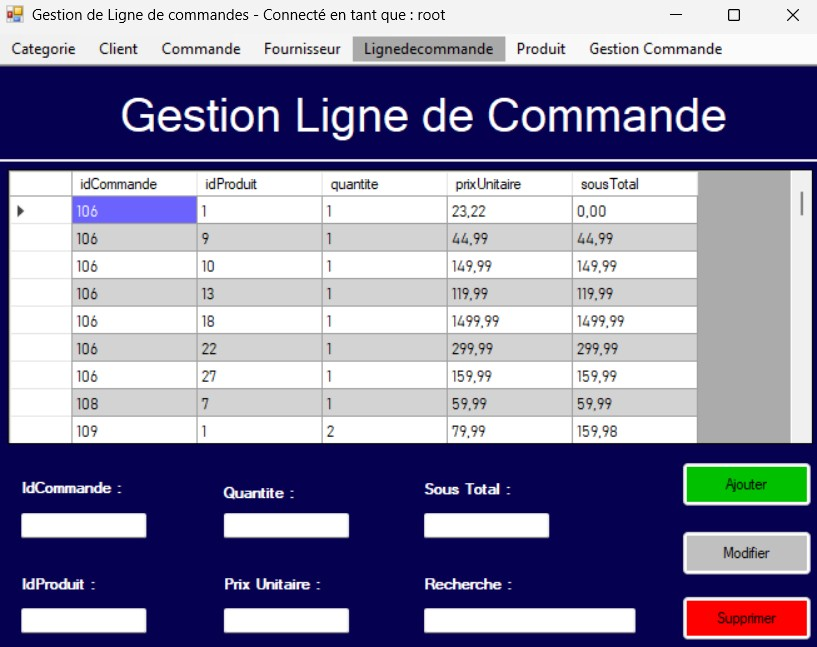
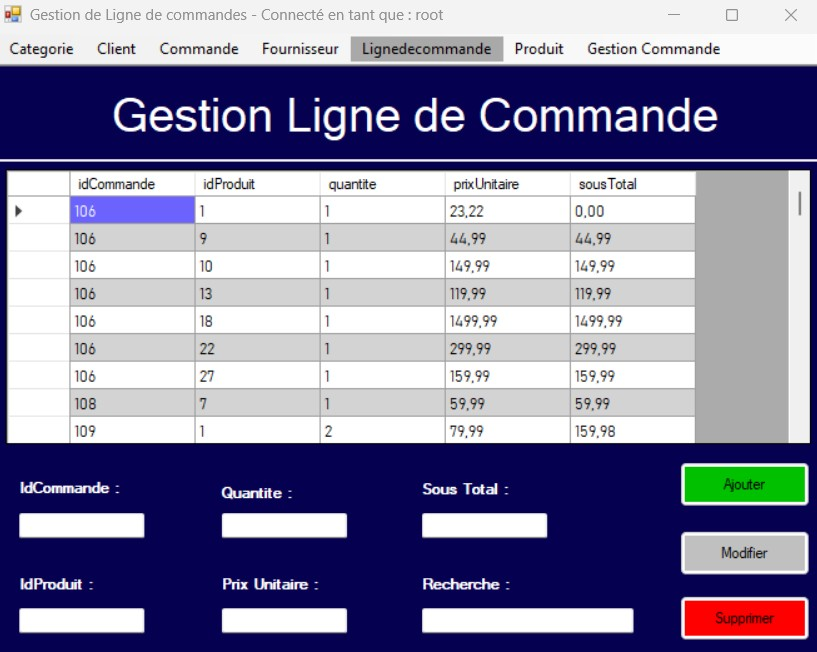
Mise Ã  jour des fichiers modifiÃ©s

diff --git a/PrinBoutique/FrmGestionCategories.Designer.cs b/PrinBoutique/FrmGestionCategories.Designer.cs
@@ -35,6 +35,7 @@
             this.fournisseurToolStripMenuItem = new System.Windows.Forms.ToolStripMenuItem();
             this.lignedecommandeToolStripMenuItem = new System.Windows.Forms.ToolStripMenuItem();
             this.produitToolStripMenuItem = new System.Windows.Forms.ToolStripMenuItem();
+            this.gestionCommandeToolStripMenuItem = new System.Windows.Forms.ToolStripMenuItem();
             this.lblGestionCategorie = new System.Windows.Forms.Label();
             this.pnlCategorie = new System.Windows.Forms.Panel();
             this.lblLibelle = new System.Windows.Forms.Label();
@@ -45,7 +46,6 @@
             this.dgvListeCategories = new System.Windows.Forms.DataGridView();
             this.lblRechercherCategorie = new System.Windows.Forms.Label();
             this.txtBoxRechercherCategorie = new System.Windows.Forms.TextBox();
-            this.gestionCommandeToolStripMenuItem = new System.Windows.Forms.ToolStripMenuItem();
             this.menuStripCategorie.SuspendLayout();
             this.pnlCategorie.SuspendLayout();
             ((System.ComponentModel.ISupportInitialize)(this.dgvListeCategories)).BeginInit();
@@ -110,12 +110,19 @@
             this.produitToolStripMenuItem.Text = "&Produit";
             this.produitToolStripMenuItem.Click += new System.EventHandler(this.produitToolStripMenuItem_Click);
             // 
+            // gestionCommandeToolStripMenuItem
+            // 
+            this.gestionCommandeToolStripMenuItem.Name = "gestionCommandeToolStripMenuItem";
+            this.gestionCommandeToolStripMenuItem.Size = new System.Drawing.Size(154, 24);
+            this.gestionCommandeToolStripMenuItem.Text = "Gestion Commande";
+            this.gestionCommandeToolStripMenuItem.Click += new System.EventHandler(this.gestionCommandeToolStripMenuItem_Click);
+            // 
             // lblGestionCategorie
             // 
             this.lblGestionCategorie.AutoSize = true;
             this.lblGestionCategorie.Font = new System.Drawing.Font("Microsoft Sans Serif", 27.75F, System.Drawing.FontStyle.Bold, System.Drawing.GraphicsUnit.Point, ((byte)(0)));
             this.lblGestionCategorie.ForeColor = System.Drawing.Color.White;
-            this.lblGestionCategorie.Location = new System.Drawing.Point(148, 21);
+            this.lblGestionCategorie.Location = new System.Drawing.Point(211, 19);
             this.lblGestionCategorie.Margin = new System.Windows.Forms.Padding(4, 0, 4, 0);
             this.lblGestionCategorie.Name = "lblGestionCategorie";
             this.lblGestionCategorie.Size = new System.Drawing.Size(417, 54);
@@ -127,7 +134,7 @@
             this.pnlCategorie.BorderStyle = System.Windows.Forms.BorderStyle.Fixed3D;
             this.pnlCategorie.Controls.Add(this.lblGestionCategorie);
             this.pnlCategorie.Location = new System.Drawing.Point(-11, 30);
-            this.pnlCategorie.Margin = new System.Windows.Forms.Padding(4, 4, 4, 4);
+            this.pnlCategorie.Margin = new System.Windows.Forms.Padding(4);
             this.pnlCategorie.Name = "pnlCategorie";
             this.pnlCategorie.Size = new System.Drawing.Size(853, 96);
             this.pnlCategorie.TabIndex = 2;
@@ -147,7 +154,7 @@
             // txtBoxLibelle
             // 
             this.txtBoxLibelle.Location = new System.Drawing.Point(383, 222);
-            this.txtBoxLibelle.Margin = new System.Windows.Forms.Padding(4, 4, 4, 4);
+            this.txtBoxLibelle.Margin = new System.Windows.Forms.Padding(4);
             this.txtBoxLibelle.Name = "txtBoxLibelle";
             this.txtBoxLibelle.Size = new System.Drawing.Size(132, 22);
             this.txtBoxLibelle.TabIndex = 24;
@@ -156,7 +163,7 @@
             // 
             this.btnSupprimerCategorie.BackColor = System.Drawing.Color.Red;
             this.btnSupprimerCategorie.Location = new System.Drawing.Point(579, 401);
-            this.btnSupprimerCategorie.Margin = new System.Windows.Forms.Padding(4, 4, 4, 4);
+            this.btnSupprimerCategorie.Margin = new System.Windows.Forms.Padding(4);
             this.btnSupprimerCategorie.Name = "btnSupprimerCategorie";
             this.btnSupprimerCategorie.Size = new System.Drawing.Size(139, 44);
             this.btnSupprimerCategorie.TabIndex = 23;
@@ -168,7 +175,7 @@
             // 
             this.btnModifierCategorie.BackColor = System.Drawing.Color.Silver;
             this.btnModifierCategorie.Location = new System.Drawing.Point(579, 277);
-            this.btnModifierCategorie.Margin = new System.Windows.Forms.Padding(4, 4, 4, 4);
+            this.btnModifierCategorie.Margin = new System.Windows.Forms.Padding(4);
             this.btnModifierCategorie.Name = "btnModifierCategorie";
             this.btnModifierCategorie.Size = new System.Drawing.Size(139, 44);
             this.btnModifierCategorie.TabIndex = 22;
@@ -181,7 +188,7 @@
             this.btnAjouterCategorie.BackColor = System.Drawing.Color.FromArgb(((int)(((byte)(0)))), ((int)(((byte)(192)))), ((int)(((byte)(0)))));
             this.btnAjouterCategorie.ForeColor = System.Drawing.Color.Black;
             this.btnAjouterCategorie.Location = new System.Drawing.Point(579, 149);
-            this.btnAjouterCategorie.Margin = new System.Windows.Forms.Padding(4, 4, 4, 4);
+            this.btnAjouterCategorie.Margin = new System.Windows.Forms.Padding(4);
             this.btnAjouterCategorie.Name = "btnAjouterCategorie";
             this.btnAjouterCategorie.Size = new System.Drawing.Size(139, 44);
             this.btnAjouterCategorie.TabIndex = 21;
@@ -193,7 +200,7 @@
             // 
             this.dgvListeCategories.ColumnHeadersHeightSizeMode = System.Windows.Forms.DataGridViewColumnHeadersHeightSizeMode.AutoSize;
             this.dgvListeCategories.Location = new System.Drawing.Point(16, 149);
-            this.dgvListeCategories.Margin = new System.Windows.Forms.Padding(4, 4, 4, 4);
+            this.dgvListeCategories.Margin = new System.Windows.Forms.Padding(4);
             this.dgvListeCategories.Name = "dgvListeCategories";
             this.dgvListeCategories.RowHeadersWidth = 51;
             this.dgvListeCategories.Size = new System.Drawing.Size(355, 297);
@@ -215,18 +222,11 @@
             // txtBoxRechercherCategorie
             // 
             this.txtBoxRechercherCategorie.Location = new System.Drawing.Point(383, 357);
-            this.txtBoxRechercherCategorie.Margin = new System.Windows.Forms.Padding(4, 4, 4, 4);
+            this.txtBoxRechercherCategorie.Margin = new System.Windows.Forms.Padding(4);
             this.txtBoxRechercherCategorie.Name = "txtBoxRechercherCategorie";
             this.txtBoxRechercherCategorie.Size = new System.Drawing.Size(177, 22);
             this.txtBoxRechercherCategorie.TabIndex = 39;
             this.txtBoxRechercherCategorie.TextChanged += new System.EventHandler(this.txtBoxRechercherCategorie_TextChanged);
-            // 
-            // gestionCommandeToolStripMenuItem
-            // 
-            this.gestionCommandeToolStripMenuItem.Name = "gestionCommandeToolStripMenuItem";
-            this.gestionCommandeToolStripMenuItem.Size = new System.Drawing.Size(154, 24);
-            this.gestionCommandeToolStripMenuItem.Text = "Gestion Commande";
-            this.gestionCommandeToolStripMenuItem.Click += new System.EventHandler(this.gestionCommandeToolStripMenuItem_Click);
             // 
             // FrmGestionCategories
             // 
@@ -245,7 +245,7 @@
             this.Controls.Add(this.pnlCategorie);
             this.Controls.Add(this.menuStripCategorie);
             this.MainMenuStrip = this.menuStripCategorie;
-            this.Margin = new System.Windows.Forms.Padding(4, 4, 4, 4);
+            this.Margin = new System.Windows.Forms.Padding(4);
             this.Name = "FrmGestionCategories";
             this.Text = "Gestion de catégories ...";
             this.Load += new System.EventHandler(this.FrmGestionCategories_Load);

diff --git a/PrinBoutique/FrmGestionLignedecommandes.Designer.cs b/PrinBoutique/FrmGestionLignedecommandes.Designer.cs
@@ -140,7 +140,7 @@
             this.lblLignedecommande.AutoSize = true;
             this.lblLignedecommande.Font = new System.Drawing.Font("Microsoft Sans Serif", 27.75F, System.Drawing.FontStyle.Regular, System.Drawing.GraphicsUnit.Point, ((byte)(0)));
             this.lblLignedecommande.ForeColor = System.Drawing.Color.White;
-            this.lblLignedecommande.Location = new System.Drawing.Point(134, 21);
+            this.lblLignedecommande.Location = new System.Drawing.Point(127, 21);
             this.lblLignedecommande.Margin = new System.Windows.Forms.Padding(4, 0, 4, 0);
             this.lblLignedecommande.Name = "lblLignedecommande";
             this.lblLignedecommande.Size = new System.Drawing.Size(629, 54);
